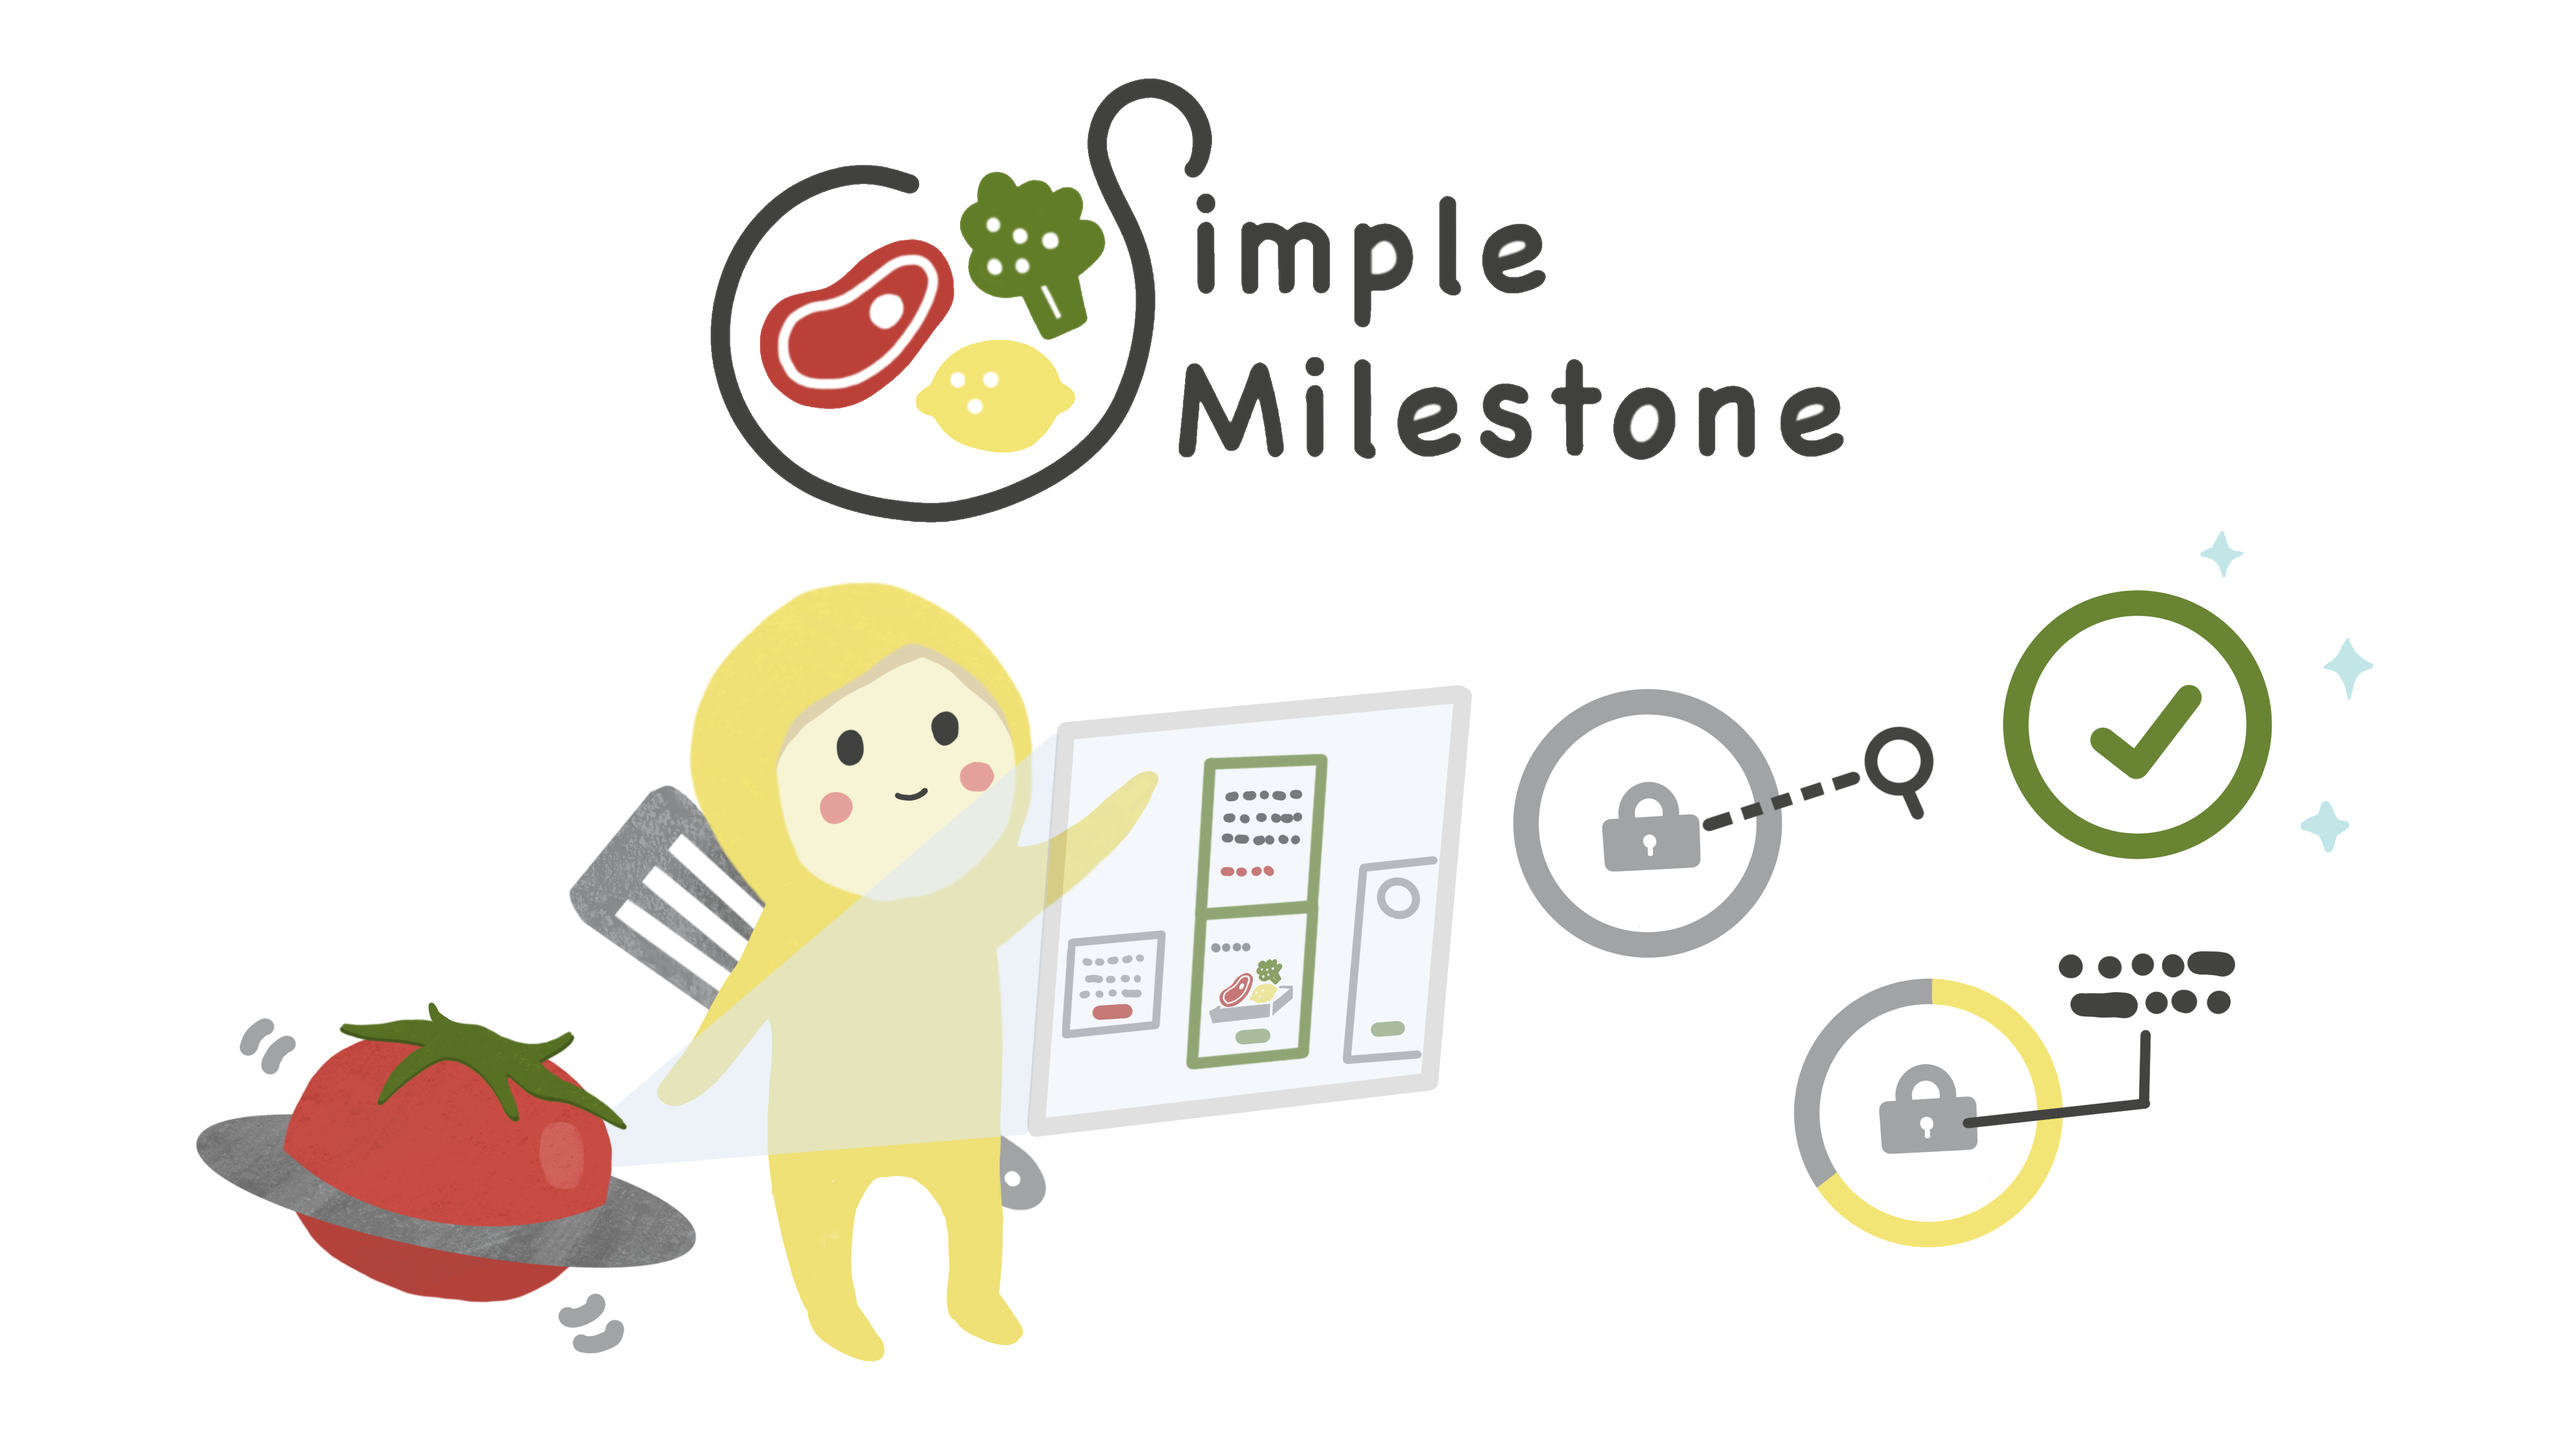
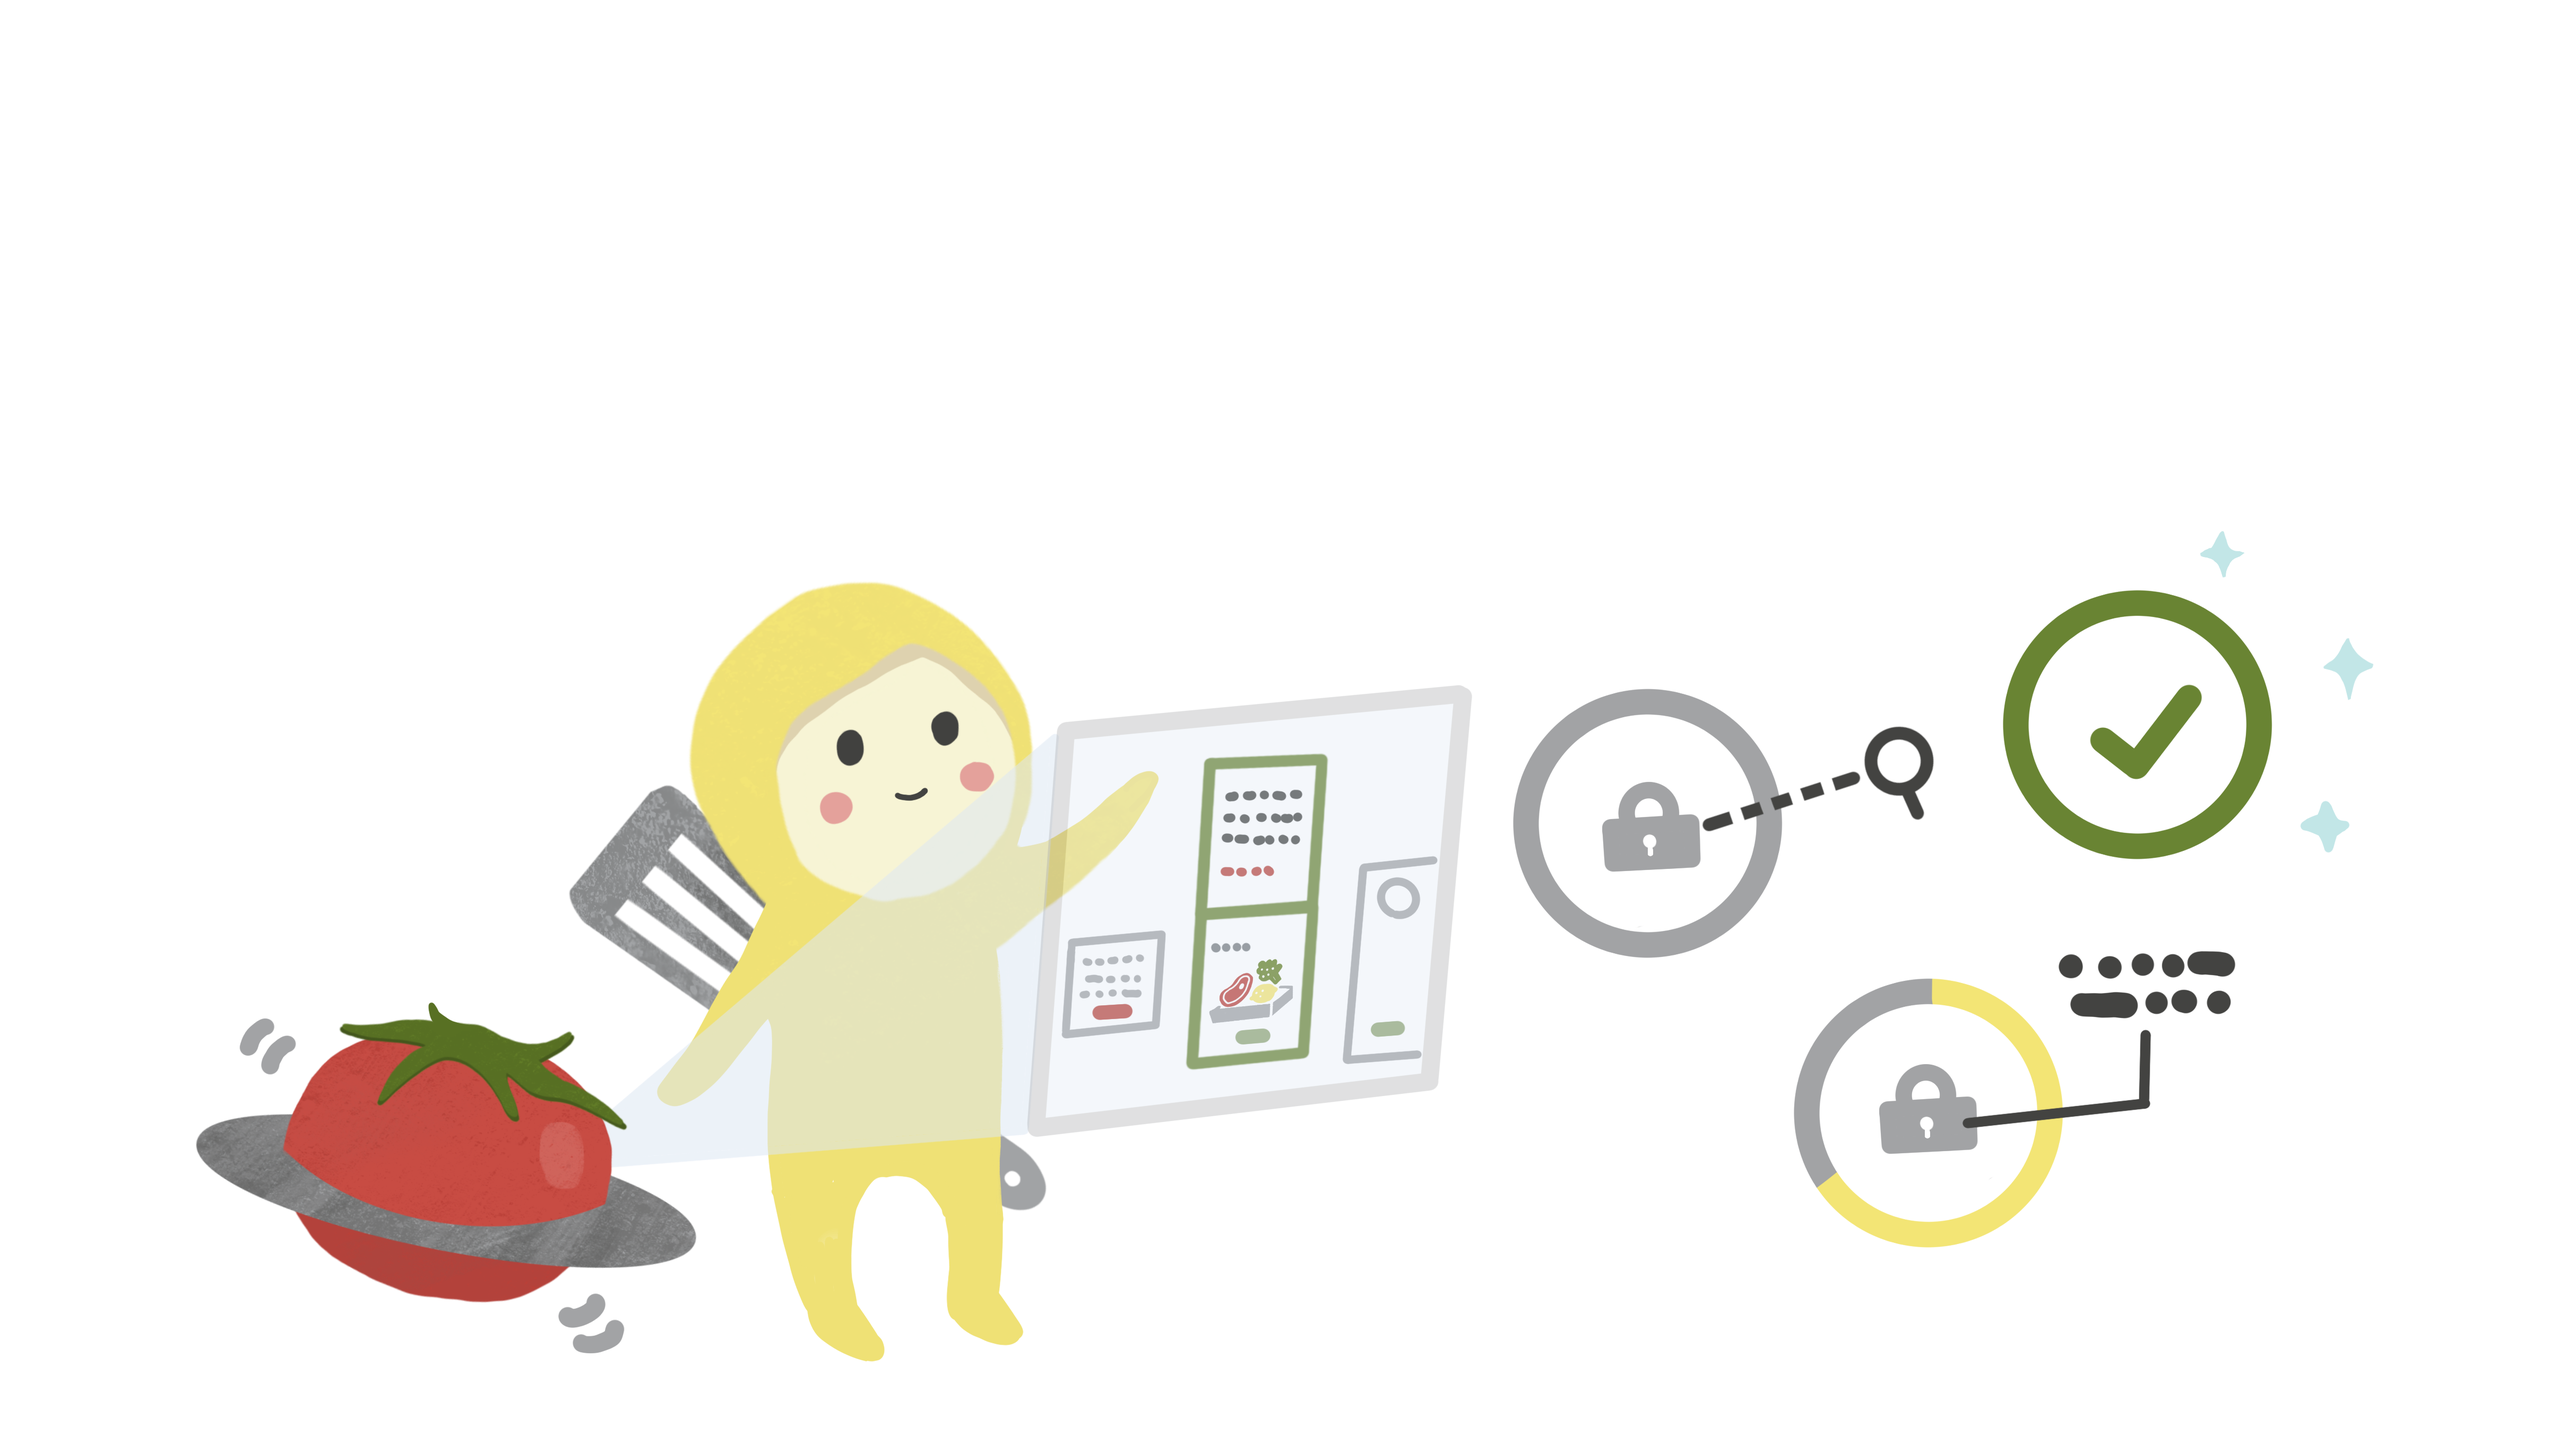
更新圖片

Changed region(s): [[0.2489, 0.031, 0.7155, 0.3724]]

diff --git a/src/components/Milestone/MsMainPic.js b/src/components/Milestone/MsMainPic.js
@@ -1,19 +1,34 @@
 import React, { props, useEffect, useState } from 'react'
 
 function MsMainPic() {
+    //scroll定位　↓↓↓
+    function ScrollToOrder() {
+      window.scrollTo({
+        top: 1100,
+        left: 0,
+        behavior: 'smooth',
+      })
+    }
+    //scroll定位　↑↑↑
   return (
     <>
       <div
-        className="d-flex justify-content-center align-items-center fff-ms-web"
-        
-      >
-        <img src="http://localhost:3015/img/fff/msMainPic.png" alt="" style={{ maxWidth: '1000px'}} />
+        className="d-flex flex-column justify-content-center align-items-center fff-ms-web"
+        style={{backgroundImage:'url(http://localhost:3015/img/fff/Kumo.svg)',backgroundRepeat:'no-repeat'}}
 
+      >
+        <img src="http://localhost:3015/img/fff/msMainPic.png" alt="" style={{ maxWidth: '1000px' }} />
+        <a
+              className="btn-yello txt-cap lll-cursor"
+              onClick={() => {
+                ScrollToOrder()
+              }}
+            >
+              scroll
+            </a>
       </div>
       <div>
-        <button className="p1-scroll-btn mx-auto d-flex align-items-center">
-          &nbsp; scroll
-        </button>
+
       </div>
     </>
   )
